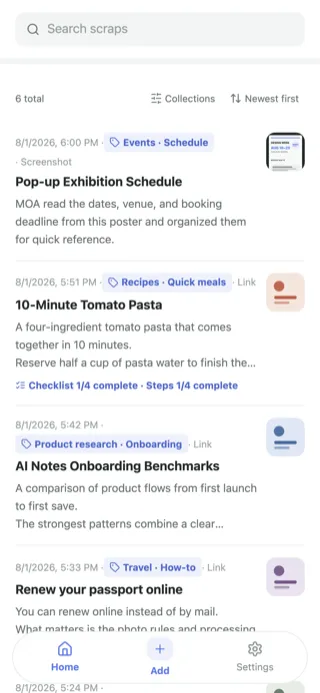
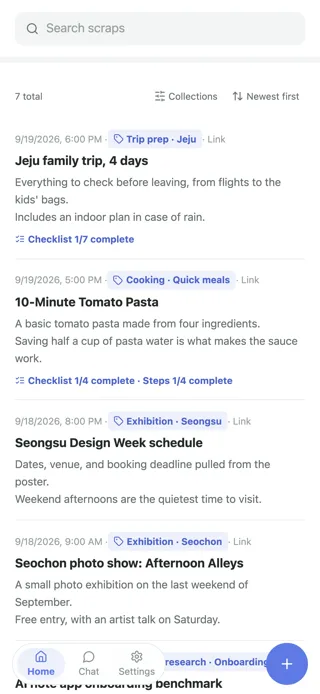
Add chat (beta) to the landing and refresh device shots to 1.0.16
- Hero lede: '…다시 찾거나, 그냥 물어보세요' (ko/en/ja)
- How-to: 4th step '저장한 것에 물어보기' with a chat screenshot; grid 3→4 columns
- Plans: add cloud answer counts as list items (free 5 / premium 50); plan headlines unchanged (legal check)
- FAQ: '채팅은 무엇을 근거로 답하나요?' — this device's scraps only, sources shown, beta, no server retention
- Device shots (home/detail/search) recaptured from the 1.0.16 (build 100) code; chat shot added; cache key v=20260925
- Screenshots use a synthetic demo library (no real user data)

diff --git a/ja/index.html b/ja/index.html
@@ -80,7 +80,7 @@
     <div>
       <span class="eyebrow">Instagramの保存済みだけで30件</span>
       <h1>先週のあのお店、<br />名前を思い出せますか。</h1>
-      <p class="lede lede--accent">モアは、入れるだけで中身を読んで整理しておくスクラップアプリです。ひと言で見つかります。</p>
+      <p class="lede lede--accent">モアは、入れるだけで中身を読んで整理しておくスクラップアプリです。ひと言で見つかります。聞くだけでも構いません。</p>
       <a class="cta" href="https://apps.apple.com/app/id6789358514">App Storeでダウンロード →</a>
       <p class="req">iPhone · iOS 17.0以降 · ログイン不要</p>
       <p class="req req--soon">Android版リリース予定</p>
@@ -224,8 +224,8 @@
         <strong>共有ボタンで入れる</strong>
         <p>アプリを開く必要はありません。保存はすぐ終わり、整理はそのまま続きます。</p>
         <div class="frame"><picture>
-              <source type="image/webp" srcset="../assets/moa-home-ja@1x.webp?v=20260812b 320w, ../assets/moa-home-ja@2x.webp?v=20260812b 640w" sizes="(max-width: 820px) 88vw, 340px" />
-              <img src="../assets/moa-home-ja@2x.png?v=20260812b" width="640" height="1387" alt="保存したスクラップが分類と要約とともに一覧で表示されるモア画面" decoding="async" fetchpriority="high" />
+              <source type="image/webp" srcset="../assets/moa-home-ja@1x.webp?v=20260925 320w, ../assets/moa-home-ja@2x.webp?v=20260925 640w" sizes="(max-width: 820px) 88vw, 260px" />
+              <img src="../assets/moa-home-ja@2x.png?v=20260925" width="640" height="1387" alt="保存したスクラップが分類と要約とともに一覧で表示されるモア画面" decoding="async" fetchpriority="high" />
             </picture></div>
       </div>
       <div class="shot">
@@ -233,8 +233,8 @@
         <strong>整理された内容を見る</strong>
         <p>要約・チェックリスト・ステップが一緒に作られます。原文は隣のタブにあります。</p>
         <div class="frame"><picture>
-              <source type="image/webp" srcset="../assets/moa-detail-ja@1x.webp?v=20260812b 320w, ../assets/moa-detail-ja@2x.webp?v=20260812b 640w" sizes="(max-width: 820px) 88vw, 340px" />
-              <img src="../assets/moa-detail-ja@2x.png?v=20260812b" width="640" height="1387" alt="整理された内容と原文を並べて見るモアの詳細画面" loading="lazy" decoding="async" />
+              <source type="image/webp" srcset="../assets/moa-detail-ja@1x.webp?v=20260925 320w, ../assets/moa-detail-ja@2x.webp?v=20260925 640w" sizes="(max-width: 820px) 88vw, 260px" />
+              <img src="../assets/moa-detail-ja@2x.png?v=20260925" width="640" height="1387" alt="整理された内容と原文を並べて見るモアの詳細画面" loading="lazy" decoding="async" />
             </picture></div>
       </div>
       <div class="shot">
@@ -242,8 +242,17 @@
         <strong>ひと言で検索する</strong>
         <p>タイトルを覚えていなくて大丈夫です。要約・メモ・スクショの文字まで一緒に検索されます。</p>
         <div class="frame"><picture>
-              <source type="image/webp" srcset="../assets/moa-search-ja@1x.webp?v=20260812b 320w, ../assets/moa-search-ja@2x.webp?v=20260812b 640w" sizes="(max-width: 820px) 88vw, 340px" />
-              <img src="../assets/moa-search-ja@2x.png?v=20260812b" width="640" height="1387" alt="ひと言で検索したモアの結果画面" loading="lazy" decoding="async" />
+              <source type="image/webp" srcset="../assets/moa-search-ja@1x.webp?v=20260925 320w, ../assets/moa-search-ja@2x.webp?v=20260925 640w" sizes="(max-width: 820px) 88vw, 260px" />
+              <img src="../assets/moa-search-ja@2x.png?v=20260925" width="640" height="1387" alt="ひと言で検索したモアの結果画面" loading="lazy" decoding="async" />
+            </picture></div>
+      </div>
+      <div class="shot">
+        <p class="shot__n">4</p>
+        <strong>保存した内容に聞く</strong>
+        <p>「あの展示はいつだった？」チャット（ベータ）に聞くと、保存したスクラップだけを根拠に答え、根拠になったスクラップも一緒に示します。</p>
+        <div class="frame"><picture>
+              <source type="image/webp" srcset="../assets/moa-chat-ja@1x.webp?v=20260925 320w, ../assets/moa-chat-ja@2x.webp?v=20260925 640w" sizes="(max-width: 820px) 88vw, 260px" />
+              <img src="../assets/moa-chat-ja@2x.png?v=20260925" width="640" height="1387" alt="保存したスクラップを根拠に答えるモアのチャット画面" loading="lazy" decoding="async" />
             </picture></div>
       </div>
     </div>
@@ -281,6 +290,7 @@
         <h3>基本機能はすべて</h3>
         <ul>
           <li>毎月リンク5件、スクショ2枚のAI整理</li>
+          <li>クラウド回答 月5回</li>
           <li>保存・検索・編集は無制限</li>
           <li>iCloud同期とバックアップ</li>
         </ul>
@@ -290,6 +300,7 @@
         <h3>AI整理を月100件まで</h3>
         <ul>
           <li>リンクとスクショのAI整理が月100件</li>
+          <li>保存した内容へのクラウド回答 月50回</li>
           <li>無料版の機能をすべて含む</li>
         </ul>
       </div>
@@ -310,6 +321,8 @@
         <p>まず端末に保存されます。iCloud同期を使うと、ご自身のApple アカウントの非公開iCloudにも保管され、当社が保管することも閲覧することもありません。同期を使わない場合は、この端末だけに残ります。</p></div>
       <div class="qa"><h3>アプリを削除したり機種変更したりするとどうなりますか。</h3>
         <p>iCloud同期を使っていれば、同じアカウントで復元されます。使わない場合のために、バックアップファイルの書き出しもご用意しています。</p></div>
+      <div class="qa"><h3>チャットは何を根拠に答えますか。</h3>
+        <p>この端末に保存したスクラップだけを根拠に答え、回答には根拠になったスクラップが表示されます。チャットはベータ版で、質問と原文はモアのサーバーに保管しません。</p></div>
       <div class="qa"><h3>Androidでも使えますか。</h3>
         <p>Android版を準備しています。リリース後のクラウド同期は、ご自身のGoogle Drive内のMOA専用非公開領域を使います。現在と同じく、当社が保管することも閲覧することもありません。</p></div>
       <div class="qa"><h3>サブスクリプションはどう管理しますか。</h3>

diff --git a/index.html b/index.html
@@ -81,7 +81,7 @@
     <div>
       <span class="eyebrow">인스타 저장함에만 서른 개</span>
       <h1>지난주 그 맛집,<br />이름 기억나세요?</h1>
-      <p class="lede lede--accent">모아는 담기만 하면 알아서 읽고 정리해 두는 스크랩 앱입니다. 단어 하나로 다시 찾으세요.</p>
+      <p class="lede lede--accent">모아는 담기만 하면 알아서 읽고 정리해 두는 스크랩 앱입니다. 단어 하나로 다시 찾거나, 그냥 물어보세요.</p>
       <a class="cta" href="https://apps.apple.com/app/id6789358514">App Store에서 다운로드 →</a>
       <p class="req">iPhone · iOS 17.0 이상 · 로그인 없이 시작</p>
       <p class="req req--soon">Android 출시 예정</p>
@@ -225,8 +225,8 @@
         <strong>공유 버튼으로 담기</strong>
         <p>앱을 열지 않아도 됩니다. 저장은 즉시 끝나고 정리는 이어서 진행됩니다.</p>
         <div class="frame"><picture>
-              <source type="image/webp" srcset="assets/moa-home-ko@1x.webp?v=20260812b 320w, assets/moa-home-ko@2x.webp?v=20260812b 640w" sizes="(max-width: 820px) 88vw, 340px" />
-              <img src="assets/moa-home-ko@2x.png?v=20260812b" width="640" height="1387" alt="담은 스크랩이 분류와 요약과 함께 목록으로 보이는 모아 화면" decoding="async" fetchpriority="high" />
+              <source type="image/webp" srcset="assets/moa-home-ko@1x.webp?v=20260925 320w, assets/moa-home-ko@2x.webp?v=20260925 640w" sizes="(max-width: 820px) 88vw, 260px" />
+              <img src="assets/moa-home-ko@2x.png?v=20260925" width="640" height="1387" alt="담은 스크랩이 분류와 요약과 함께 목록으로 보이는 모아 화면" decoding="async" fetchpriority="high" />
             </picture></div>
       </div>
       <div class="shot">
@@ -234,8 +234,8 @@
         <strong>정리본 확인</strong>
         <p>요약·체크리스트·단계가 함께 만들어집니다. 원문은 옆 탭에 있습니다.</p>
         <div class="frame"><picture>
-              <source type="image/webp" srcset="assets/moa-detail-ko@1x.webp?v=20260812b 320w, assets/moa-detail-ko@2x.webp?v=20260812b 640w" sizes="(max-width: 820px) 88vw, 340px" />
-              <img src="assets/moa-detail-ko@2x.png?v=20260812b" width="640" height="1387" alt="정리본과 원문을 함께 보는 모아 상세 화면" loading="lazy" decoding="async" />
+              <source type="image/webp" srcset="assets/moa-detail-ko@1x.webp?v=20260925 320w, assets/moa-detail-ko@2x.webp?v=20260925 640w" sizes="(max-width: 820px) 88vw, 260px" />
+              <img src="assets/moa-detail-ko@2x.png?v=20260925" width="640" height="1387" alt="정리본과 원문을 함께 보는 모아 상세 화면" loading="lazy" decoding="async" />
             </picture></div>
       </div>
       <div class="shot">
@@ -243,8 +243,17 @@
         <strong>단어 하나로 검색</strong>
         <p>제목을 몰라도 됩니다. 요약·메모·캡처 속 글자까지 함께 검색됩니다.</p>
         <div class="frame"><picture>
-              <source type="image/webp" srcset="assets/moa-search-ko@1x.webp?v=20260812b 320w, assets/moa-search-ko@2x.webp?v=20260812b 640w" sizes="(max-width: 820px) 88vw, 340px" />
-              <img src="assets/moa-search-ko@2x.png?v=20260812b" width="640" height="1387" alt="단어 하나로 검색한 모아 결과 화면" loading="lazy" decoding="async" />
+              <source type="image/webp" srcset="assets/moa-search-ko@1x.webp?v=20260925 320w, assets/moa-search-ko@2x.webp?v=20260925 640w" sizes="(max-width: 820px) 88vw, 260px" />
+              <img src="assets/moa-search-ko@2x.png?v=20260925" width="640" height="1387" alt="단어 하나로 검색한 모아 결과 화면" loading="lazy" decoding="async" />
+            </picture></div>
+      </div>
+      <div class="shot">
+        <p class="shot__n">4</p>
+        <strong>저장한 것에 물어보기</strong>
+        <p>“지난주 그 전시 언제였지?” 채팅(베타)에 물으면 저장한 스크랩만 근거로 답하고, 근거가 된 스크랩을 함께 보여줍니다.</p>
+        <div class="frame"><picture>
+              <source type="image/webp" srcset="assets/moa-chat-ko@1x.webp?v=20260925 320w, assets/moa-chat-ko@2x.webp?v=20260925 640w" sizes="(max-width: 820px) 88vw, 260px" />
+              <img src="assets/moa-chat-ko@2x.png?v=20260925" width="640" height="1387" alt="저장한 스크랩을 근거로 답하는 모아 채팅 화면" loading="lazy" decoding="async" />
             </picture></div>
       </div>
     </div>
@@ -282,6 +291,7 @@
         <h3>기본 기능 전체</h3>
         <ul>
           <li>매월 링크 5건, 캡처 2장 AI 정리</li>
+          <li>클라우드 답변 월 5회</li>
           <li>저장·검색·수정 제한 없음</li>
           <li>iCloud 동기화와 백업</li>
         </ul>
@@ -291,6 +301,7 @@
         <h3>AI 정리를 월 100건까지</h3>
         <ul>
           <li>링크와 캡처 AI 정리 월 100건</li>
+          <li>저장한 것에 묻는 클라우드 답변 월 50회</li>
           <li>무료의 모든 기능 포함</li>
         </ul>
       </div>
@@ -311,6 +322,8 @@
         <p>기기에 먼저 저장됩니다. iCloud 동기화를 사용하면 내 Apple 계정의 비공개 iCloud에 함께 보관되며, 저희는 보관하거나 열람하지 않습니다. 동기화를 사용하지 않으면 이 기기에만 남습니다.</p></div>
       <div class="qa"><h3>앱을 삭제하거나 기기를 변경하면 어떻게 되나요?</h3>
         <p>iCloud 동기화를 사용 중이라면 같은 계정에서 복원됩니다. 사용하지 않는 경우를 위해 백업 파일 내보내기도 제공합니다.</p></div>
+      <div class="qa"><h3>채팅은 무엇을 근거로 답하나요?</h3>
+        <p>이 기기에 저장된 스크랩만 근거로 답하고, 답변에는 근거가 된 스크랩이 함께 표시됩니다. 채팅은 베타이며, 질문과 원문은 모아 서버에 보관하지 않습니다.</p></div>
       <div class="qa"><h3>Android에서도 쓸 수 있나요?</h3>
         <p>Android 버전을 준비하고 있습니다. 출시되면 클라우드 동기화는 이용자 Google Drive의 비공개 앱 전용 공간을 사용하며, 지금과 같이 저희는 보관하거나 열람하지 않습니다.</p></div>
       <div class="qa"><h3>구독은 어떻게 관리하나요?</h3>

diff --git a/en/index.html b/en/index.html
@@ -80,7 +80,7 @@
     <div>
       <span class="eyebrow">Thirty saves in Instagram alone</span>
       <h1>That place you saved&nbsp;—<br />what was it called?</h1>
-      <p class="lede lede--accent">MOA is a private scrapbook that reads and organizes everything you save. Search one word to get it back.</p>
+      <p class="lede lede--accent">MOA is a private scrapbook that reads and organizes everything you save. Search one word to get it back — or just ask.</p>
       <a class="cta" href="https://apps.apple.com/app/id6789358514">Download on the App&nbsp;Store →</a>
       <p class="req">iPhone · iOS&nbsp;17.0 or later · No account needed</p>
       <p class="req req--soon">Android coming soon</p>
@@ -224,8 +224,8 @@
         <strong>Save with the share sheet</strong>
         <p>No need to open the app. Saving finishes instantly and the organizing continues on its own.</p>
         <div class="frame"><picture>
-              <source type="image/webp" srcset="../assets/moa-home-en@1x.webp?v=20260812b 320w, ../assets/moa-home-en@2x.webp?v=20260812b 640w" sizes="(max-width: 820px) 88vw, 340px" />
-              <img src="../assets/moa-home-en@2x.png?v=20260812b" width="640" height="1387" alt="Saved scraps shown as a list with tags and summaries in MOA" decoding="async" fetchpriority="high" />
+              <source type="image/webp" srcset="../assets/moa-home-en@1x.webp?v=20260925 320w, ../assets/moa-home-en@2x.webp?v=20260925 640w" sizes="(max-width: 820px) 88vw, 260px" />
+              <img src="../assets/moa-home-en@2x.png?v=20260925" width="640" height="1387" alt="Saved scraps shown as a list with tags and summaries in MOA" decoding="async" fetchpriority="high" />
             </picture></div>
       </div>
       <div class="shot">
@@ -233,8 +233,8 @@
         <strong>Read what came back</strong>
         <p>A summary, a checklist and steps — written for you. The original sits in the next tab.</p>
         <div class="frame"><picture>
-              <source type="image/webp" srcset="../assets/moa-detail-en@1x.webp?v=20260812b 320w, ../assets/moa-detail-en@2x.webp?v=20260812b 640w" sizes="(max-width: 820px) 88vw, 340px" />
-              <img src="../assets/moa-detail-en@2x.png?v=20260812b" width="640" height="1387" alt="MOA detail screen showing the summary next to the original" loading="lazy" decoding="async" />
+              <source type="image/webp" srcset="../assets/moa-detail-en@1x.webp?v=20260925 320w, ../assets/moa-detail-en@2x.webp?v=20260925 640w" sizes="(max-width: 820px) 88vw, 260px" />
+              <img src="../assets/moa-detail-en@2x.png?v=20260925" width="640" height="1387" alt="MOA detail screen showing the summary next to the original" loading="lazy" decoding="async" />
             </picture></div>
       </div>
       <div class="shot">
@@ -242,8 +242,17 @@
         <strong>Find it with one word</strong>
         <p>You don’t need the title. Summaries, notes and text inside screenshots are all searched together.</p>
         <div class="frame"><picture>
-              <source type="image/webp" srcset="../assets/moa-search-en@1x.webp?v=20260812b 320w, ../assets/moa-search-en@2x.webp?v=20260812b 640w" sizes="(max-width: 820px) 88vw, 340px" />
-              <img src="../assets/moa-search-en@2x.png?v=20260812b" width="640" height="1387" alt="MOA search results for a single keyword" loading="lazy" decoding="async" />
+              <source type="image/webp" srcset="../assets/moa-search-en@1x.webp?v=20260925 320w, ../assets/moa-search-en@2x.webp?v=20260925 640w" sizes="(max-width: 820px) 88vw, 260px" />
+              <img src="../assets/moa-search-en@2x.png?v=20260925" width="640" height="1387" alt="MOA search results for a single keyword" loading="lazy" decoding="async" />
+            </picture></div>
+      </div>
+      <div class="shot">
+        <p class="shot__n">4</p>
+        <strong>Ask about what you saved</strong>
+        <p>“When was that exhibition?” Chat (beta) answers only from your saved scraps and shows which ones it used.</p>
+        <div class="frame"><picture>
+              <source type="image/webp" srcset="../assets/moa-chat-en@1x.webp?v=20260925 320w, ../assets/moa-chat-en@2x.webp?v=20260925 640w" sizes="(max-width: 820px) 88vw, 260px" />
+              <img src="../assets/moa-chat-en@2x.png?v=20260925" width="640" height="1387" alt="MOA chat answering from saved scraps" loading="lazy" decoding="async" />
             </picture></div>
       </div>
     </div>
@@ -281,6 +290,7 @@
         <h3>Every core feature</h3>
         <ul>
           <li>5&nbsp;links and 2&nbsp;screenshots organized by AI each month</li>
+          <li>5&nbsp;cloud answers each month</li>
           <li>Unlimited saving, search and editing</li>
           <li>iCloud sync and backup</li>
         </ul>
@@ -290,6 +300,7 @@
         <h3>Up to 100&nbsp;saves organized by AI each month</h3>
         <ul>
           <li>100&nbsp;links and screenshots organized each month</li>
+          <li>50&nbsp;cloud answers about what you saved each month</li>
           <li>Everything in Free included</li>
         </ul>
       </div>
@@ -310,6 +321,8 @@
         <p>On your device first. With iCloud sync on, they are also kept in your own private iCloud, which we neither store nor read. With sync off, they stay on this device only.</p></div>
       <div class="qa"><h3>What if I delete the app or switch phones?</h3>
         <p>With iCloud sync on, everything restores under the same account. If you’d rather not use sync, you can export a backup file instead.</p></div>
+      <div class="qa"><h3>What does Chat base its answers on?</h3>
+        <p>Only the scraps saved on this device, and every answer lists the scraps it used. Chat is in beta; your questions and source text are not stored on MOA servers.</p></div>
       <div class="qa"><h3>Is there an Android version?</h3>
         <p>An Android version is on the way. When it ships, cloud sync will use MOA’s private app storage in your own Google Drive — and, as today, we will neither store nor read it.</p></div>
       <div class="qa"><h3>How do I manage my subscription?</h3>

diff --git a/styles.css b/styles.css
@@ -714,7 +714,7 @@ a {
 .home .searchbar .q {font-weight:700;color:var(--ink)}
 
 /* 실제 화면 */
-.home .shots {display:grid;grid-template-columns:repeat(3,1fr);gap:32px;margin-top:52px}
+.home .shots {display:grid;grid-template-columns:repeat(4,1fr);gap:24px;margin-top:52px}
 .home .shot {text-align:center}
 .home .shot .frame {border-radius:26px;padding:7px;background:linear-gradient(150deg,#3d4643,#171b1a);
   box-shadow:0 24px 50px rgba(30,36,35,.22)}
